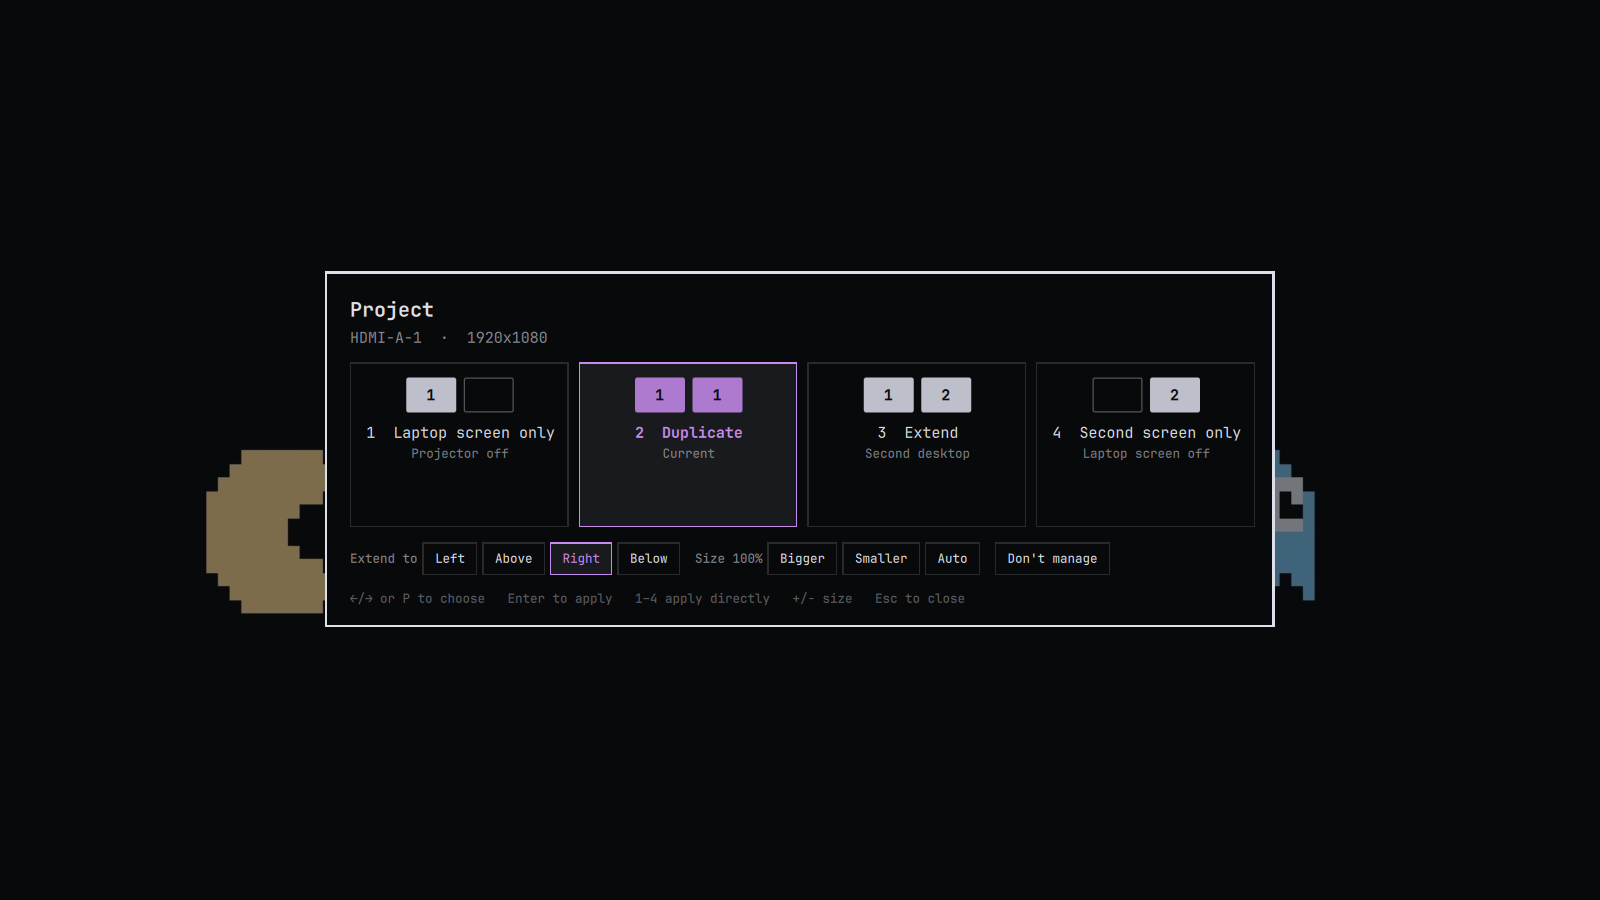
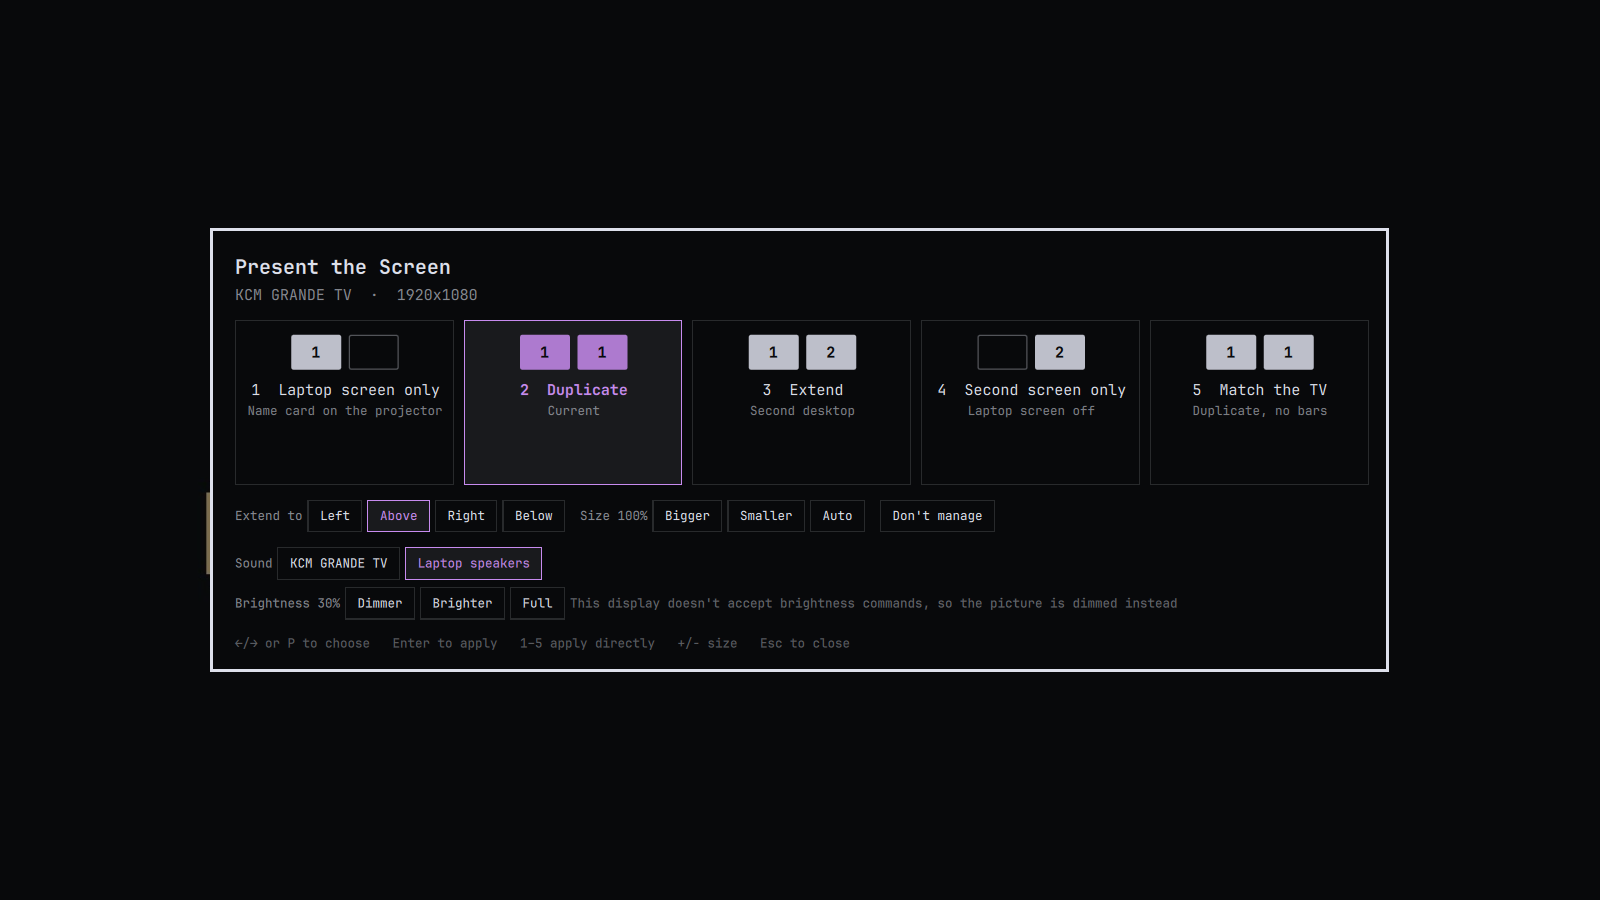
chore: release 1.1.0 with new screenshots and upgrade notes
New picker screenshot, plus Match the TV and card screenshots in docs/.
The README covers the optional packages, the 1-5 keys, updating from
1.0.0 (the bar icon needs one disable and enable), and every file
Present writes. Display names drop their EDID serial in the picker,
the bar tooltip and notifications, and the Match the TV diagram shows
a mirror (1 1).

Changed region(s): [[0.125, 0.2489, 0.875, 0.5289], [0.125, 0.4978, 0.875, 0.7467], [0.7812, 0.4978, 0.8438, 0.6844]]

diff --git a/Picker.qml b/Picker.qml
@@ -182,7 +182,7 @@ Item {
           }
           Text {
             text: !root.status.connected ? "No external display connected"
-              : root.status.label + "  ·  " + root.status.resolution
+              : (root.status.displayName || root.status.label) + "  ·  " + root.status.resolution
                 + (root.status.display === "ignore" ? "  ·  left to your Hyprland config" : "")
             color: root.foreground
             opacity: 0.6
@@ -442,7 +442,7 @@ Item {
         Text {
           anchors.centerIn: parent
           visible: parent.on
-          text: diagramRoot.mode === "duplicate" ? "1" : String(index + 1)
+          text: diagramRoot.mode === "duplicate" || diagramRoot.mode === "match" ? "1" : String(index + 1)
           color: root.background
           font.family: root.fontFamily
           font.pixelSize: Style.font.body

diff --git a/BarWidget.qml b/BarWidget.qml
@@ -120,7 +120,7 @@ BarWidget {
     dimmed: root.status.display === "ignore"
     tooltipText: !root.status.connected ? "Present the Screen"
       : "Present the Screen · " + (root.modeNames[root.status.display] || "Duplicate")
-        + "\n" + root.status.label
+        + "\n" + (root.status.displayName || root.status.label)
         + (root.activeSound !== "" ? "\nSound: " + root.activeSound : "")
         + "\nBrightness " + (root.status.brightness || 100) + "%"
         + (root.status.brightnessMethod === "dim" ? " (dimmed)" : "")

diff --git a/README.md b/README.md
@@ -50,8 +50,11 @@ at its largest mode of 50Hz or more instead.
 
 ```bash
 omarchy plugin add https://github.com/akashanil-dev/omarchy-present.git --enable
-sudo pacman -S wl-mirror
+sudo pacman -S wl-mirror            # Duplicate and Match the TV
+sudo pacman -S qrencode ddcutil     # optional: the card's QR code, monitor brightness
 ```
+
+`--enable` asks where in the bar the icon goes; the right section suits it.
 
 Then bind the picker to a key in `~/.config/hypr/bindings.lua`. Present doesn't
 add the binding for you. `SUPER + P` matches Windows; Omarchy uses it for
@@ -62,6 +65,18 @@ hl.unbind("SUPER + P")
 o.bind("SUPER + P", "Project to a second screen", "omarchy-shell shell toggle io.github.akashanil-dev.present")
 ```
 
+### Updating from 1.0.0
+
+```bash
+omarchy plugin update io.github.akashanil-dev.present
+omarchy plugin disable io.github.akashanil-dev.present
+omarchy plugin enable io.github.akashanil-dev.present --section right
+```
+
+1.0.0 had no bar icon, so Omarchy recorded it as a plugin without one;
+disabling and enabling it again puts the new icon in the bar. Your saved
+displays are kept.
+
 ## Using it
 
 `SUPER + P` opens the picker.
@@ -70,27 +85,30 @@ o.bind("SUPER + P", "Project to a second screen", "omarchy-shell shell toggle io
 |---|---|
 | `←` `→`, or `P` | Choose a mode |
 | `Enter` | Apply it |
-| `1`–`4` | Apply a mode directly |
+| `1`–`5` | Apply a mode directly |
 | `+` `−` | Bigger or smaller (Extend and Second screen only) |
 | `0` | Back to the automatic size |
 | `Esc` | Close |
 
-The bottom row sets where an extended display sits and how big things are on
-it. **Don't manage** hands the display back to your own Hyprland config, for a
-desk monitor you have already set up in `monitors.lua`.
+Below the modes: where an extended display sits and how big things are on it,
+which output the sound plays from, and the display's brightness. **Don't
+manage** hands the display back to your own Hyprland config, for a desk monitor
+you have already set up in `monitors.lua`.
 
 Everything is also available from a terminal:
 
 ```bash
 P=~/.config/omarchy/plugins/io.github.akashanil-dev.present/bin/present
 $P status                       # JSON: the display and its saved mode
-$P set duplicate                # duplicate | extend | external | internal | ignore
+$P set duplicate                # duplicate | match | extend | external | internal | ignore
 $P position up                  # right | left | up | down
 $P scale up                     # up | down | reset
 $P title "Back at 3:15"         # top line of the card; no text clears it
 ```
 
 ### Match the TV
+
+![Match the TV: the laptop's desktop takes the TV's shape, and the TV is filled](docs/match.png)
 
 The laptop panel keeps its native resolution (laptop panels take no other), but
 a strip at the top is reserved so the desktop below it has the TV's shape: on a
@@ -139,6 +157,8 @@ move it like any other bar widget.
 
 ### The card
 
+![The card on a TV in Laptop screen only](docs/card.png)
+
 In **Laptop screen only** the projector keeps its signal and shows a card in
 your theme's colours, instead of being switched off. Some TVs drop off HDMI when
 their signal stops and stay gone until power-cycled; this way they never do,
@@ -172,7 +192,7 @@ nothing burns into a TV left on all day.
 - **No config files are edited.** Display rules are applied at runtime with
   `hyprctl eval`, the way Omarchy's own `SUPER + /` scaling key works. A config
   reload drops them, and the plugin applies them again right after.
-- **Duplicate** uses [wl-mirror](https://github.com/Ferdi265/wl-mirror). The
+- **Duplicate and Match the TV** use [wl-mirror](https://github.com/Ferdi265/wl-mirror). The
   external display runs at its native mode, placed far away from the laptop
   display so the cursor and new windows can't land on it, and wl-mirror fills it
   on a workspace of its own (`present`), so `SUPER + 1`–`9` stay on the laptop.
@@ -192,12 +212,14 @@ Files it writes:
 
 | Path | Contents |
 |---|---|
-| `~/.local/state/io.github.akashanil-dev.present/displays.json` | The saved mode, position and size of each display |
+| `~/.local/state/io.github.akashanil-dev.present/displays.json` | Each display's saved mode, position, size, sound output and brightness |
 | `~/.local/state/io.github.akashanil-dev.present/present.log` | What happened and when, trimmed to a few hundred lines |
-| `$XDG_RUNTIME_DIR/io.github.akashanil-dev.present/` | A lock file, the rules applied in this session, and the card's state and QR code |
+| `$XDG_RUNTIME_DIR/io.github.akashanil-dev.present/` | A lock file, the rules applied in this session, what the card and dimming layer show, and the QR code |
+| `~/.local/state/omarchy/toggles/hypr/internal-monitor-disable.lua` | Omarchy's own laptop-screen-off flag, in Second screen only |
 
 It reads `~/.config/io.github.akashanil-dev.present/card.json` (see The card),
-and `present title` writes to it.
+and `present title` writes to it. Choosing a sound output changes the default
+output (and if needed the sound card's profile) through PipeWire.
 
 Nothing runs as root, and nothing reaches the network.
 
@@ -237,7 +259,7 @@ wl-mirror 0.18.5.
 
 ```bash
 omarchy plugin remove io.github.akashanil-dev.present
-rm -rf ~/.local/state/io.github.akashanil-dev.present
+rm -rf ~/.local/state/io.github.akashanil-dev.present ~/.config/io.github.akashanil-dev.present
 hyprctl reload
 ```
 
@@ -246,18 +268,22 @@ drops any display rules Present applied.
 
 ## Development
 
-`bin/present` holds all the logic; `Service.qml` reacts to Hyprland's
-`monitoradded`, `monitorremoved` and `configreloaded` events, and `Picker.qml` is
-the picker. To try it without a second display, create a virtual one and let
-Present count it:
+`bin/present` holds all the logic. `Service.qml` reacts to Hyprland's display
+and fullscreen events and draws the card (`Card.qml`) and the dimming layer;
+`Picker.qml` is the picker and `BarWidget.qml` the bar icon. The shell doesn't
+always pick up an edited `.qml` file on its own; `omarchy-restart-shell` does.
+
+To try it without a second display, create a virtual one with a connector-like
+name, which Present counts like a real display:
 
 ```bash
-touch ~/.local/state/io.github.akashanil-dev.present/include-headless
-hyprctl output create headless HDMI-A-1
+hyprctl output create headless HDMI-A-9
 # ...
-hyprctl output remove HDMI-A-1
-rm ~/.local/state/io.github.akashanil-dev.present/include-headless
+hyprctl output remove HDMI-A-9
 ```
+
+Virtual outputs with other names (`HEADLESS-2`) only count after
+`touch ~/.local/state/io.github.akashanil-dev.present/include-headless`.
 
 ## License
 

diff --git a/CHANGELOG.md b/CHANGELOG.md
@@ -1,6 +1,6 @@
 # Changelog
 
-## Unreleased
+## 1.1.0
 
 - Renamed to Present the Screen. The plugin id, the `present` command and the
   saved settings are unchanged.
@@ -13,7 +13,8 @@
 - Brightness: DDC/CI with ddcutil where the display takes it, otherwise a
   dimming layer, and the picker says which.
 - A bar icon showing the mode: click for the picker, scroll for brightness.
-
+- Upgrading from 1.0.0: disable and enable the plugin once to get the bar
+  icon (see the README).
 - Laptop screen only keeps the projector's signal and shows a card instead: an
   optional title line, your name and site, a QR code, and the time. Set it up
   in `~/.config/io.github.akashanil-dev.present/card.json`, or the title with
